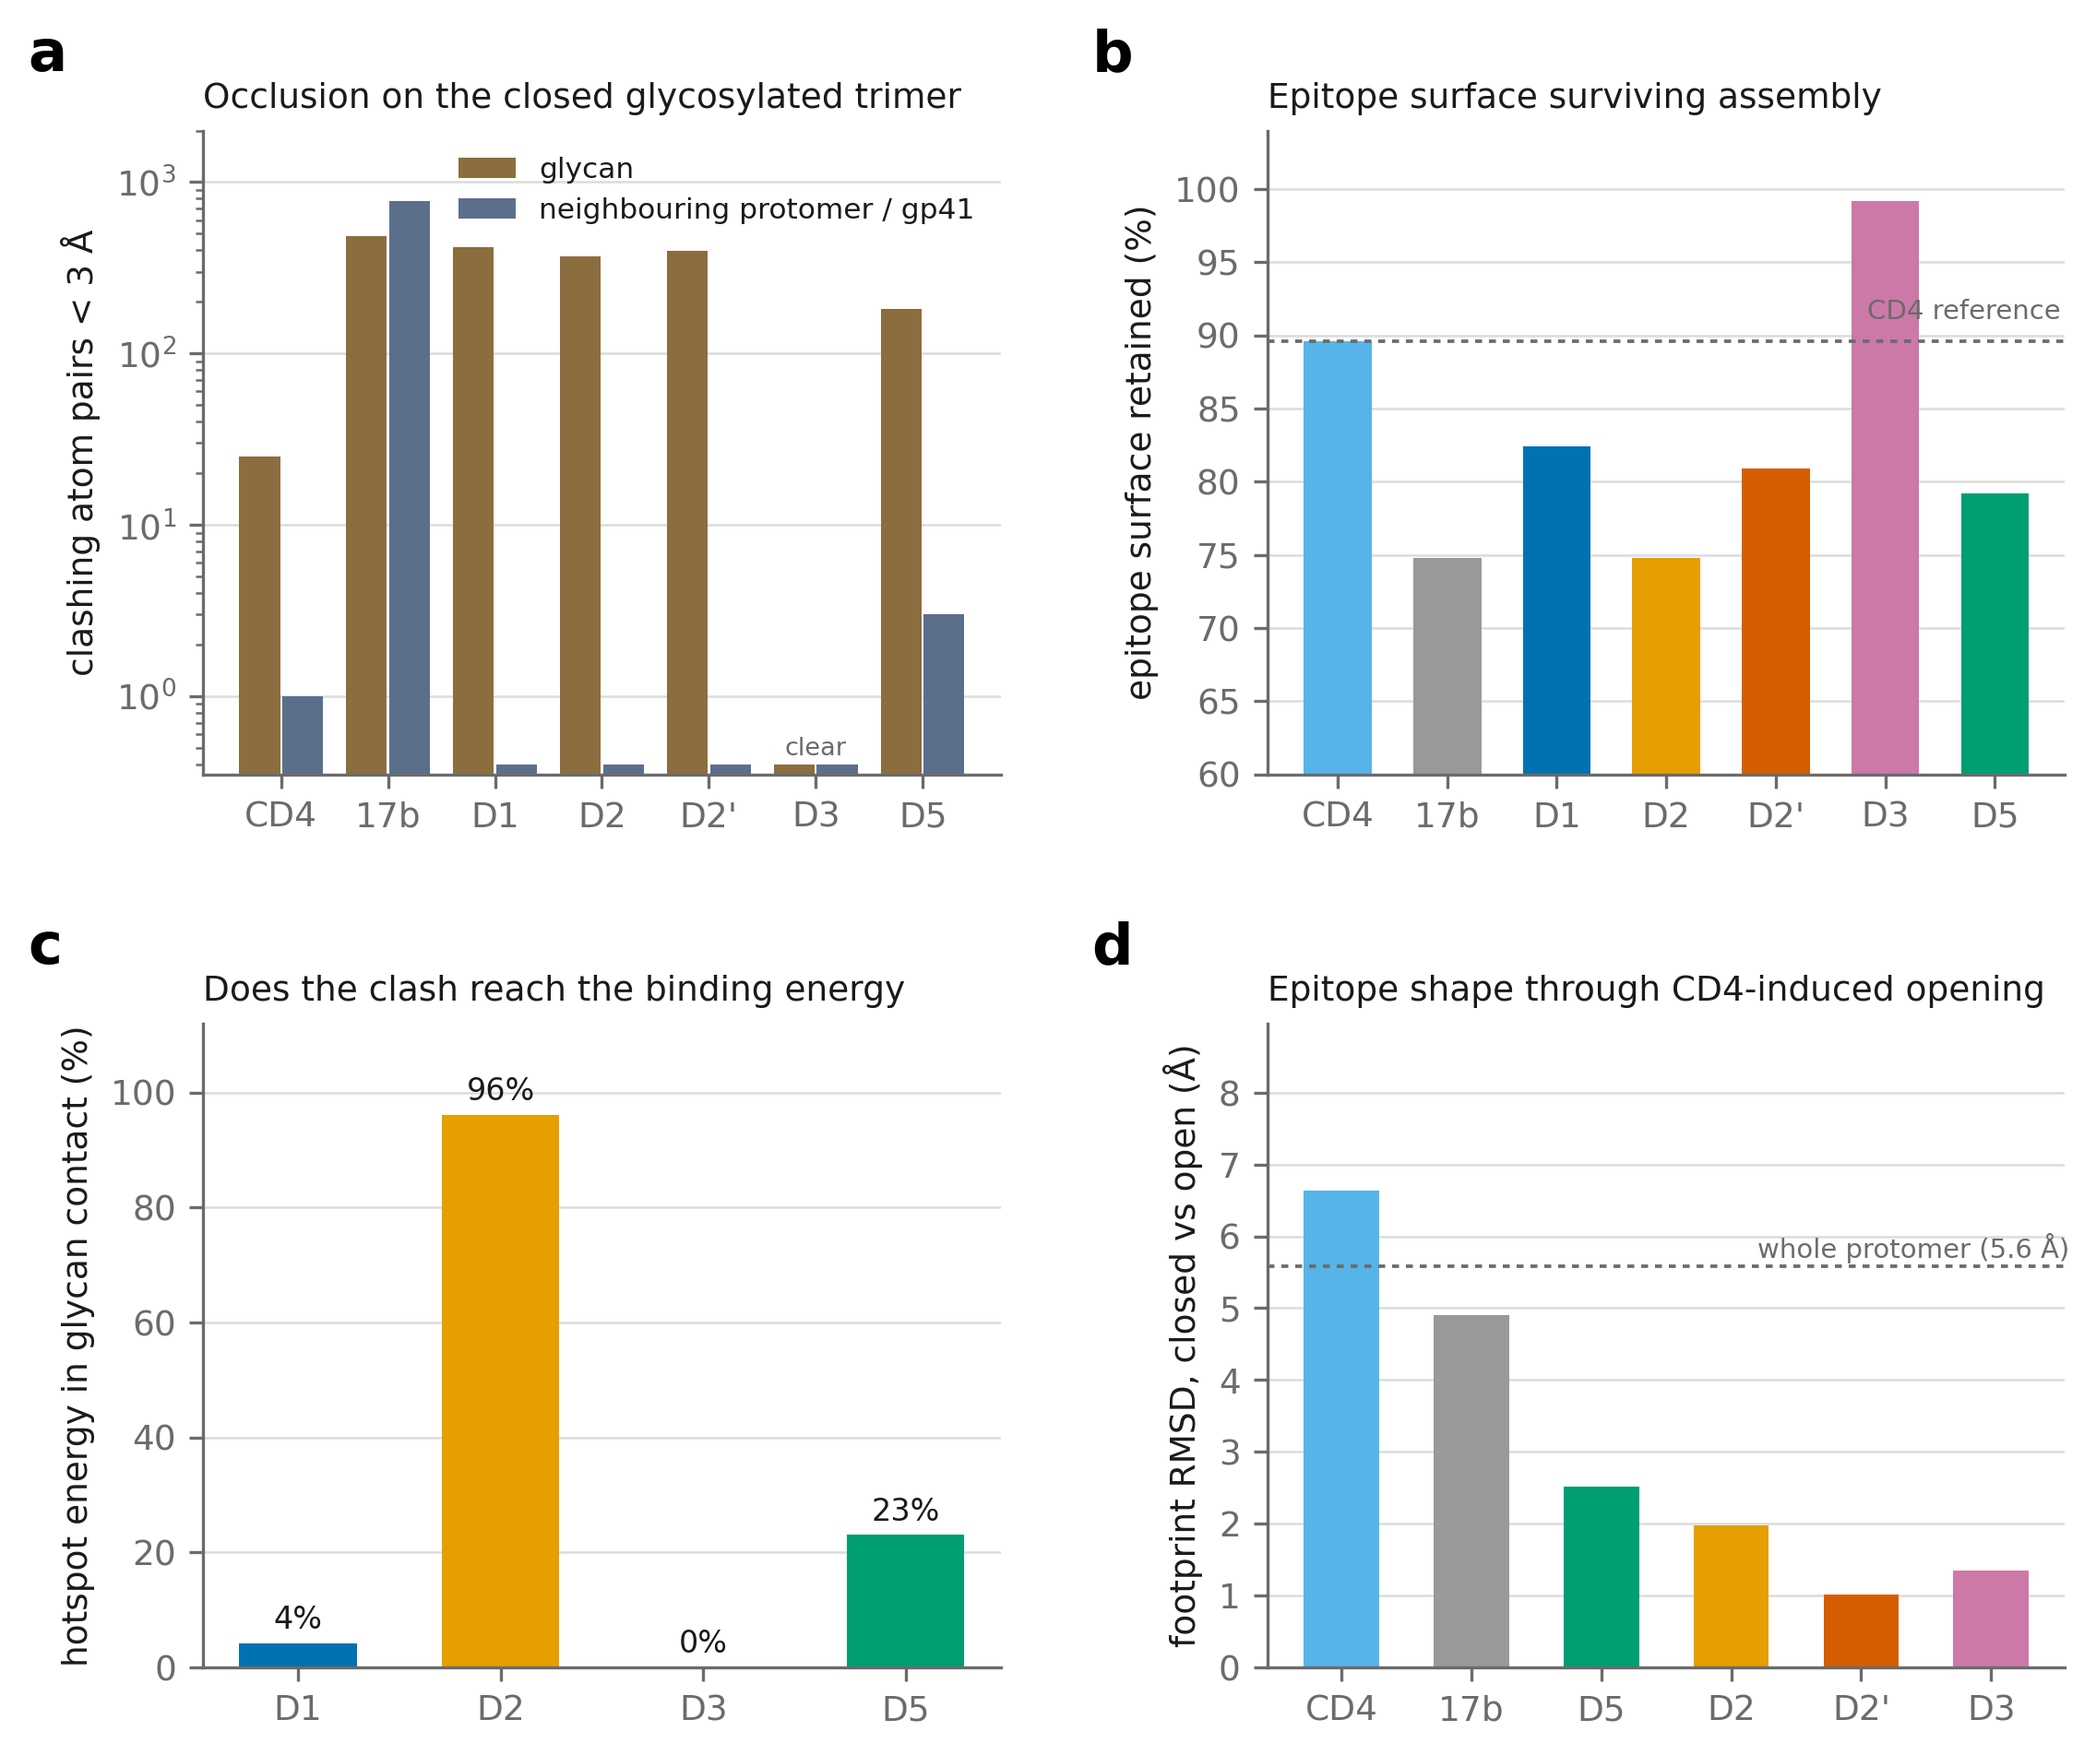
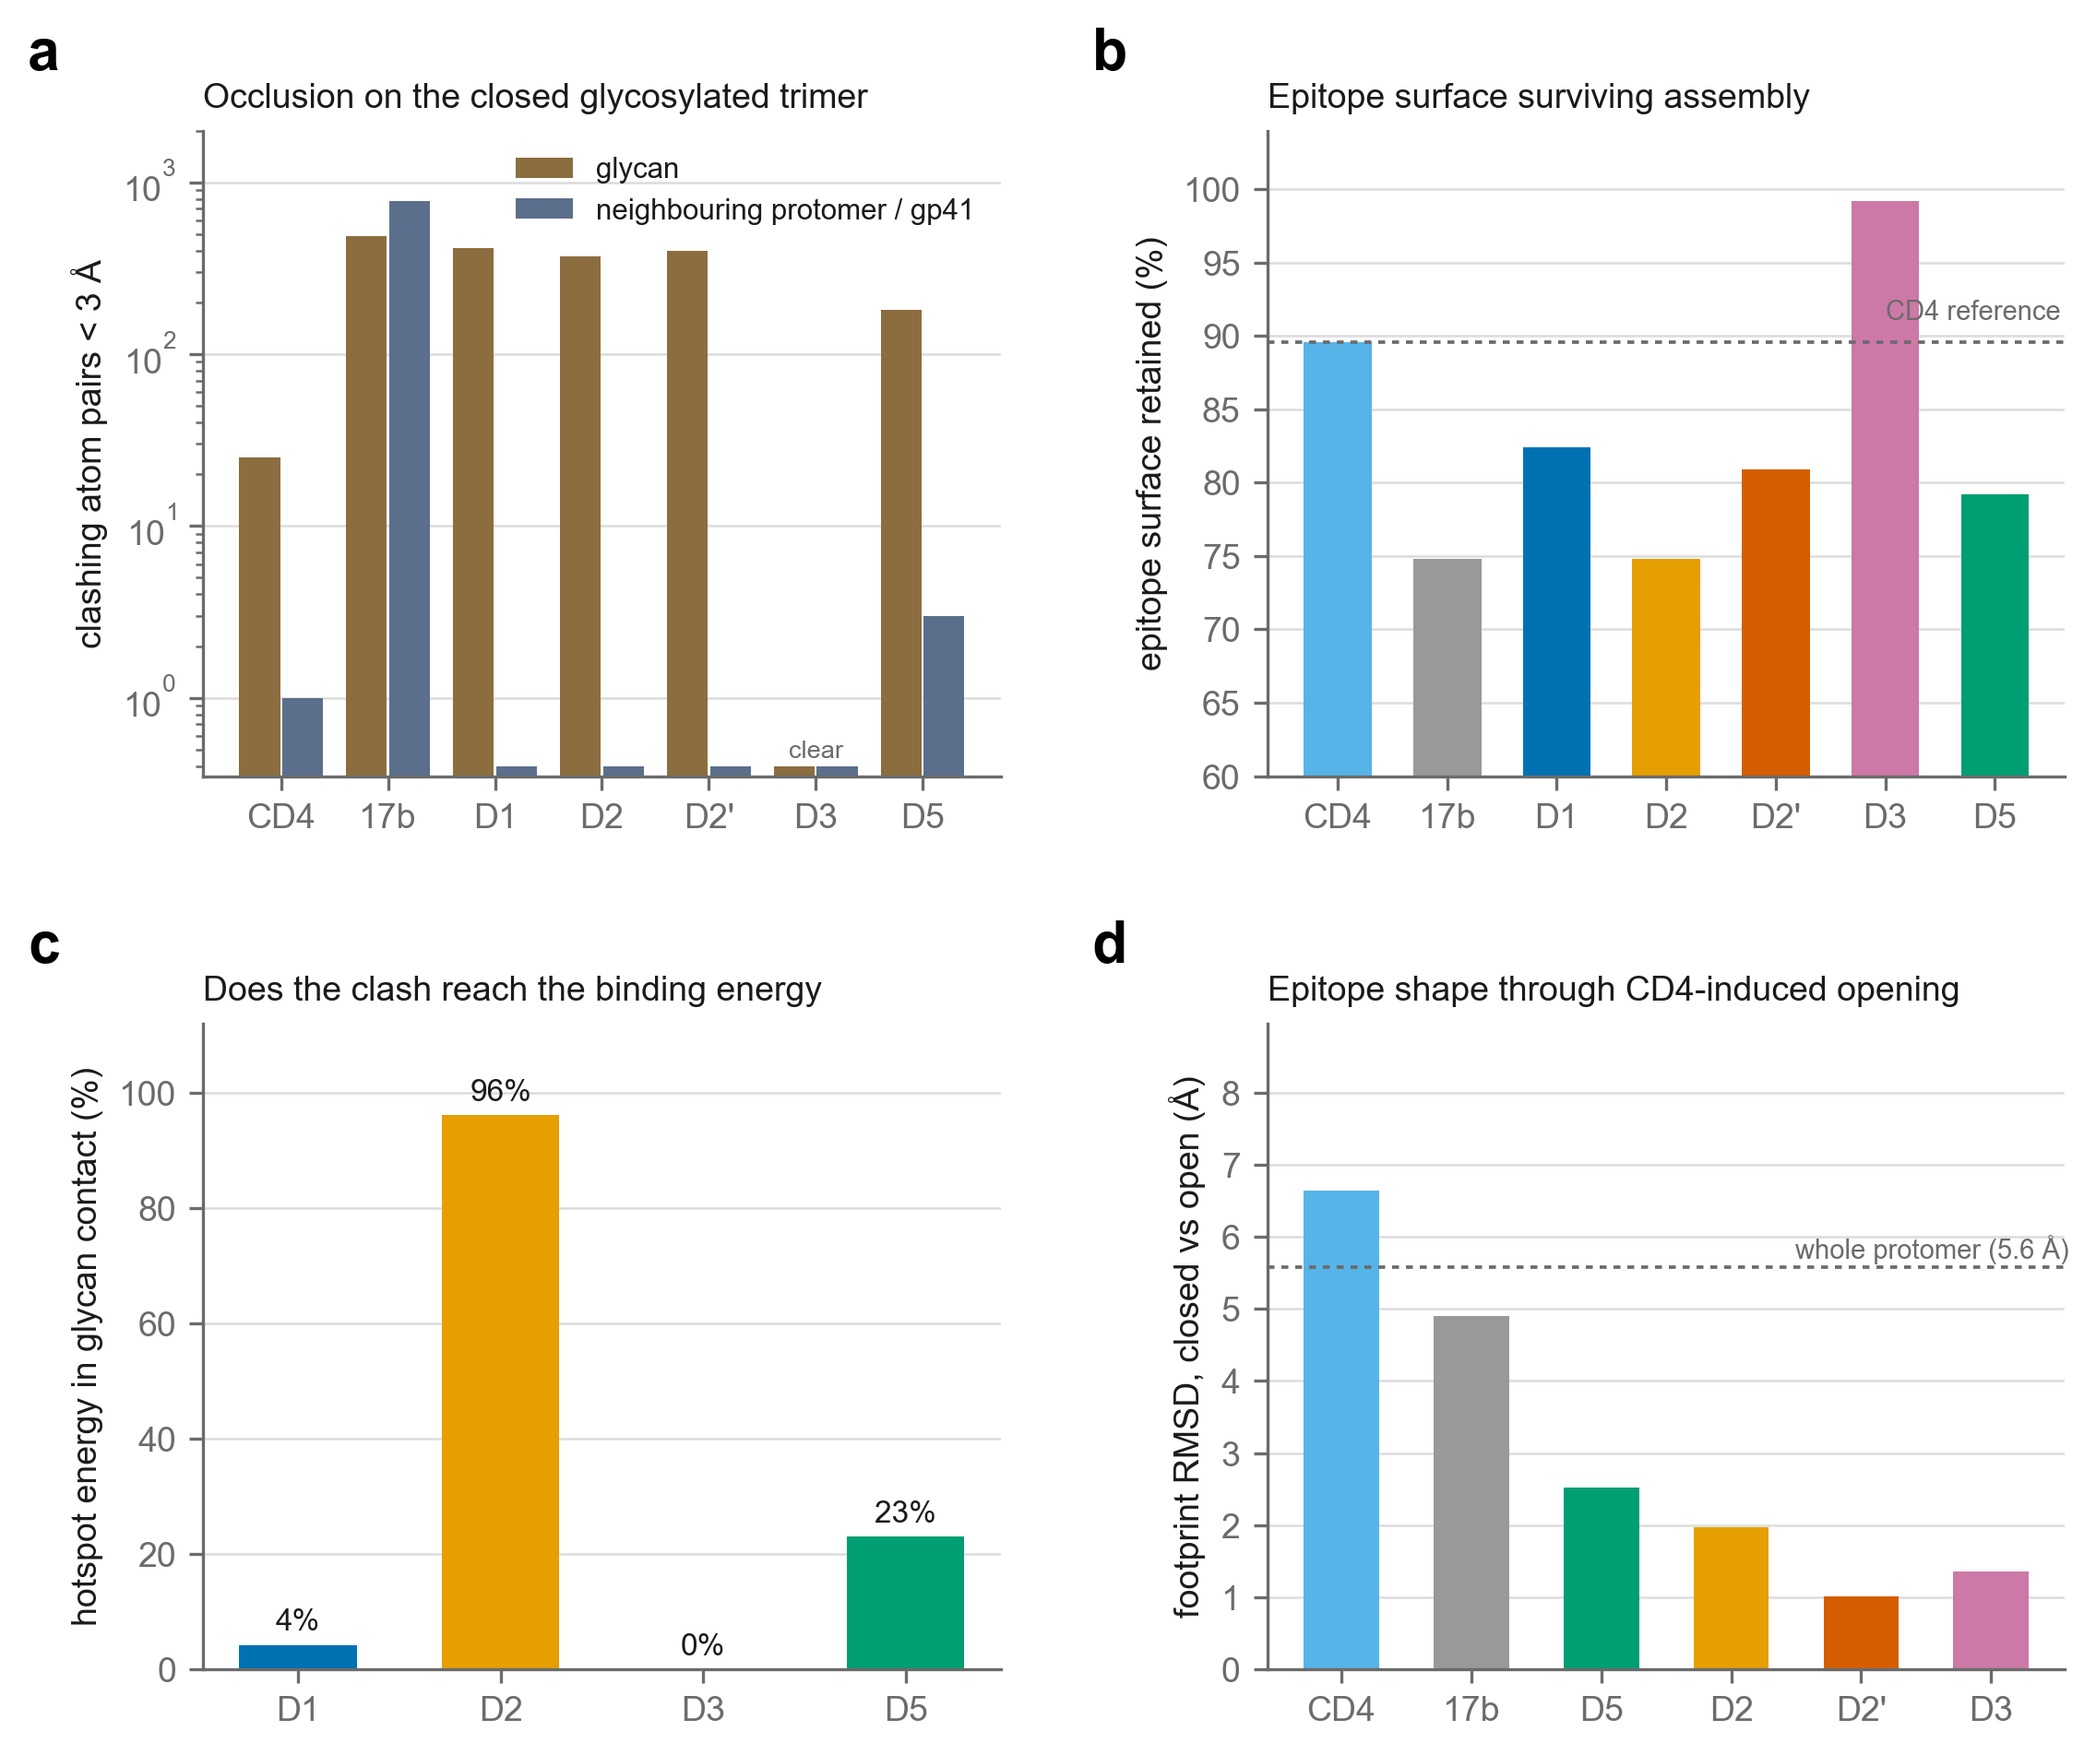
Re-render figures in Arial and fix a stale label in two tables
Plotted figures were in DejaVu Sans and are now Arial, which is what the
journal permits inside figure files. Tables 5 and 11 carried the label D4
for the complex everything else calls D2 prime, the alternative pose of
the D2 sequence; same numbers, different name. Relabelled.

diff --git a/analysis/scripts/plot_redesign.py b/analysis/scripts/plot_redesign.py
@@ -15,7 +15,7 @@ import matplotlib.pyplot as plt
 RED = r"C:\Users\anant\Desktop\hiv_miniprotein_design\paper_analysis\07_redesign"
 FIG = r"C:\Users\anant\Desktop\hiv_miniprotein_design\paper_analysis\04_figures"
 TBL = r"C:\Users\anant\Desktop\hiv_miniprotein_design\paper_analysis\05_tables"
-plt.rcParams.update({"font.family": "DejaVu Sans", "font.size": 11})
+plt.rcParams.update({"font.family": "Arial", "font.size": 11})
 
 rows = json.load(open(os.path.join(RED, "redesign_d5.json")))
 POS = [("ARG444", "Arg444 (40% cons.)", "#D55E00"),

diff --git a/analysis/scripts/plot_counter_screen.py b/analysis/scripts/plot_counter_screen.py
@@ -26,7 +26,7 @@ NAME = {"gp120": "gp120\n(the target)", "HSA_1AO6": "serum albumin\n1AO6",
 COLOR = {"gp120": "#009E73", "HSA_1AO6": "#E69F00",
          "lysozyme_1DPX": "#CC79A7", "ubiquitin_1UBQ": "#56B4E9"}
 
-plt.rcParams.update({"font.family": "DejaVu Sans", "font.size": 9,
+plt.rcParams.update({"font.family": "Arial", "font.size": 9,
                      "axes.edgecolor": MUTED, "axes.labelcolor": INK,
                      "xtick.color": MUTED, "ytick.color": MUTED,
                      "axes.linewidth": 0.8, "figure.dpi": 300})

diff --git a/analysis/scripts/plot_native_context.py b/analysis/scripts/plot_native_context.py
@@ -28,7 +28,7 @@ COLOR = {"D5": "#009E73", "D1": "#0072B2", "D2": "#E69F00",
 SHORT = {"CD4": "CD4", "17b": "17b", "D1": "D1", "D2": "D2", "D2p": "D2'",
          "D3": "D3", "D5": "D5"}
 
-plt.rcParams.update({"font.family": "DejaVu Sans", "font.size": 9,
+plt.rcParams.update({"font.family": "Arial", "font.size": 9,
                      "axes.edgecolor": MUTED, "axes.labelcolor": INK,
                      "xtick.color": MUTED, "ytick.color": MUTED,
                      "axes.linewidth": 0.8, "figure.dpi": 300})

diff --git a/analysis/scripts/plot_coreceptor_breadth.py b/analysis/scripts/plot_coreceptor_breadth.py
@@ -31,7 +31,7 @@ VERM, PURPLE, GREY = "#D55E00", "#CC79A7", "#9a9a9a"
 COL = {"CD4": "#8bb8d8", "17b": ORANGE, "D5": GREEN, "D2": ORANGE,
        "D2p": VERM, "D3": PURPLE}
 
-plt.rcParams.update({"font.family": "DejaVu Sans", "font.size": 9,
+plt.rcParams.update({"font.family": "Arial", "font.size": 9,
                      "axes.edgecolor": MUTED, "axes.labelcolor": INK,
                      "xtick.color": MUTED, "ytick.color": MUTED,
                      "axes.linewidth": 0.8, "figure.dpi": 300})

diff --git a/analysis/scripts/plot_energetics.py b/analysis/scripts/plot_energetics.py
@@ -35,7 +35,7 @@ AA3TO1 = {"ALA": "A", "ARG": "R", "ASN": "N", "ASP": "D", "CYS": "C",
 def one(resname):
     return AA3TO1.get(resname.upper(), "X")
 
-plt.rcParams.update({"font.family": "DejaVu Sans", "font.size": 9,
+plt.rcParams.update({"font.family": "Arial", "font.size": 9,
                      "axes.edgecolor": MUTED, "axes.labelcolor": INK,
                      "xtick.color": MUTED, "ytick.color": MUTED,
                      "axes.linewidth": 0.8, "figure.dpi": 300})

diff --git a/analysis/scripts/plot_decomposition.py b/analysis/scripts/plot_decomposition.py
@@ -14,7 +14,7 @@ import matplotlib.pyplot as plt
 
 PA = r"C:\Users\anant\Desktop\hiv_miniprotein_design\paper_analysis"
 rows = json.load(open(os.path.join(PA, "05_tables", "energy_decomposition.json")))
-plt.rcParams.update({"font.family": "DejaVu Sans", "font.size": 11})
+plt.rcParams.update({"font.family": "Arial", "font.size": 11})
 
 order = ["D1 (CD4-mimetic control)", "D2 (de novo bispecific)",
          "D3 (CD4-mimetic cyclic)", "D2' (alternative pose)",

diff --git a/analysis/scripts/compose_figures.py b/analysis/scripts/compose_figures.py
@@ -20,7 +20,7 @@ from PIL import Image
 FIG = r"C:\Users\anant\Desktop\hiv_miniprotein_design\paper_analysis\04_figures"
 D1, D2, D5, D4, D3 = "#0072B2", "#E69F00", "#009E73", "#D55E00", "#CC79A7"
 CD4F, ABF = "#99C2E0", "#F5CC8C"
-plt.rcParams.update({"font.family": "DejaVu Sans", "font.size": 11})
+plt.rcParams.update({"font.family": "Arial", "font.size": 11})
 
 
 def crop(name, pad=12):

diff --git a/analysis/scripts/plot_md.py b/analysis/scripts/plot_md.py
@@ -38,7 +38,7 @@ MUTED = "#6b6b6b"
 GRID = "#dcdcdc"
 
 plt.rcParams.update({
-    "font.family": "DejaVu Sans", "font.size": 9,
+    "font.family": "Arial", "font.size": 9,
     "axes.edgecolor": MUTED, "axes.labelcolor": INK,
     "xtick.color": MUTED, "ytick.color": MUTED,
     "axes.linewidth": 0.8, "figure.dpi": 300,

diff --git a/analysis/05_tables/table6_bispecific_constructs.md b/analysis/05_tables/table6_bispecific_constructs.md
@@ -1,16 +1,16 @@
 | Construct (N->C)                | Arm 1                         | Arm 2                         |   C-to-N distance (A) |   Min linker (res) |   Suggested linker (res) | Feasible   |
 |:--------------------------------|:------------------------------|:------------------------------|----------------------:|-------------------:|-------------------------:|:-----------|
-| model_4_chai-linker-Cyclic_Ring | D4 (de novo)                  | D3 (CD4-mimetic cyclic)       |                  28.6 |                  9 |                       13 | yes        |
-| model_4_chai-linker-Chai1_Best  | D4 (de novo)                  | D2 (de novo bispecific)       |                  36.1 |                 11 |                       16 | yes        |
+| model_4_chai-linker-Cyclic_Ring | D2' (alternative pose)                  | D3 (CD4-mimetic cyclic)       |                  28.6 |                  9 |                       13 | yes        |
+| model_4_chai-linker-Chai1_Best  | D2' (alternative pose)                  | D2 (de novo bispecific)       |                  36.1 |                 11 |                       16 | yes        |
 | Cyclic_Ring-linker-Chai1_Best   | D3 (CD4-mimetic cyclic)       | D2 (de novo bispecific)       |                  37.1 |                 11 |                       16 | yes        |
-| model_4_chai-linker-Latest_Best | D4 (de novo)                  | D5 (de novo, coreceptor site) |                  41   |                 12 |                       18 | yes        |
-| Cyclic_Ring-linker-model_4_chai | D3 (CD4-mimetic cyclic)       | D4 (de novo)                  |                  43.7 |                 13 |                       19 | yes        |
+| model_4_chai-linker-Latest_Best | D2' (alternative pose)                  | D5 (de novo, coreceptor site) |                  41   |                 12 |                       18 | yes        |
+| Cyclic_Ring-linker-model_4_chai | D3 (CD4-mimetic cyclic)       | D2' (alternative pose)                  |                  43.7 |                 13 |                       19 | yes        |
 | Cyclic_Ring-linker-Latest_Best  | D3 (CD4-mimetic cyclic)       | D5 (de novo, coreceptor site) |                  47.9 |                 14 |                       21 | yes        |
 | Chai1_Best-linker-Cyclic_Ring   | D2 (de novo bispecific)       | D3 (CD4-mimetic cyclic)       |                  49.7 |                 15 |                       22 | yes        |
-| Chai1_Best-linker-model_4_chai  | D2 (de novo bispecific)       | D4 (de novo)                  |                  58.9 |                 17 |                       25 | yes        |
+| Chai1_Best-linker-model_4_chai  | D2 (de novo bispecific)       | D2' (alternative pose)                  |                  58.9 |                 17 |                       25 | yes        |
 | S310-linker-Latest_Best         | D1 (CD4-mimetic control)      | D5 (de novo, coreceptor site) |                  60.8 |                 18 |                       27 | yes        |
 | S310-linker-Chai1_Best          | D1 (CD4-mimetic control)      | D2 (de novo bispecific)       |                  60.9 |                 18 |                       27 | yes        |
 | Latest_Best-linker-Cyclic_Ring  | D5 (de novo, coreceptor site) | D3 (CD4-mimetic cyclic)       |                  61.3 |                 18 |                       27 | yes        |
 | Chai1_Best-linker-S310          | D2 (de novo bispecific)       | D1 (CD4-mimetic control)      |                  62.2 |                 18 |                       27 | yes        |
 | Latest_Best-linker-S310         | D5 (de novo, coreceptor site) | D1 (CD4-mimetic control)      |                  71.7 |                 21 |                       31 | yes        |
-| Latest_Best-linker-model_4_chai | D5 (de novo, coreceptor site) | D4 (de novo)                  |                  87.7 |                 26 |                       39 | yes        |
+| Latest_Best-linker-model_4_chai | D5 (de novo, coreceptor site) | D2' (alternative pose)                  |                  87.7 |                 26 |                       39 | yes        |

diff --git a/analysis/05_tables/table5_interface_benchmark.md b/analysis/05_tables/table5_interface_benchmark.md
@@ -3,7 +3,7 @@
 | D1 (CD4-mimetic control)              | designed     |                 391 |        23 |              6 |      2589   |                      37 |                        27 |
 | D5 (de novo, coreceptor site)         | designed     |                 435 |        22 |              1 |      2220.2 |                      24 |                        22 |
 | D2 (de novo bispecific)               | designed     |                 340 |        25 |              4 |      1756.1 |                      20 |                        20 |
-| D4 (de novo)                          | designed     |                 289 |        21 |              0 |      1413.4 |                      19 |                        15 |
+| D2' (alternative pose)                          | designed     |                 289 |        21 |              0 |      1413.4 |                      19 |                        15 |
 | D3 (CD4-mimetic cyclic)               | designed     |                 293 |        24 |              0 |      1254   |                      22 |                        11 |
 | gp120 / CD4 D1D2 (1GC1, experimental) | experimental |                 332 |        18 |              5 |      1912.5 |                      28 |                        24 |
 | gp120 / b12 Fab (2NY7, experimental)  | experimental |                 326 |        17 |              0 |      1866.6 |                      28 |                        16 |
